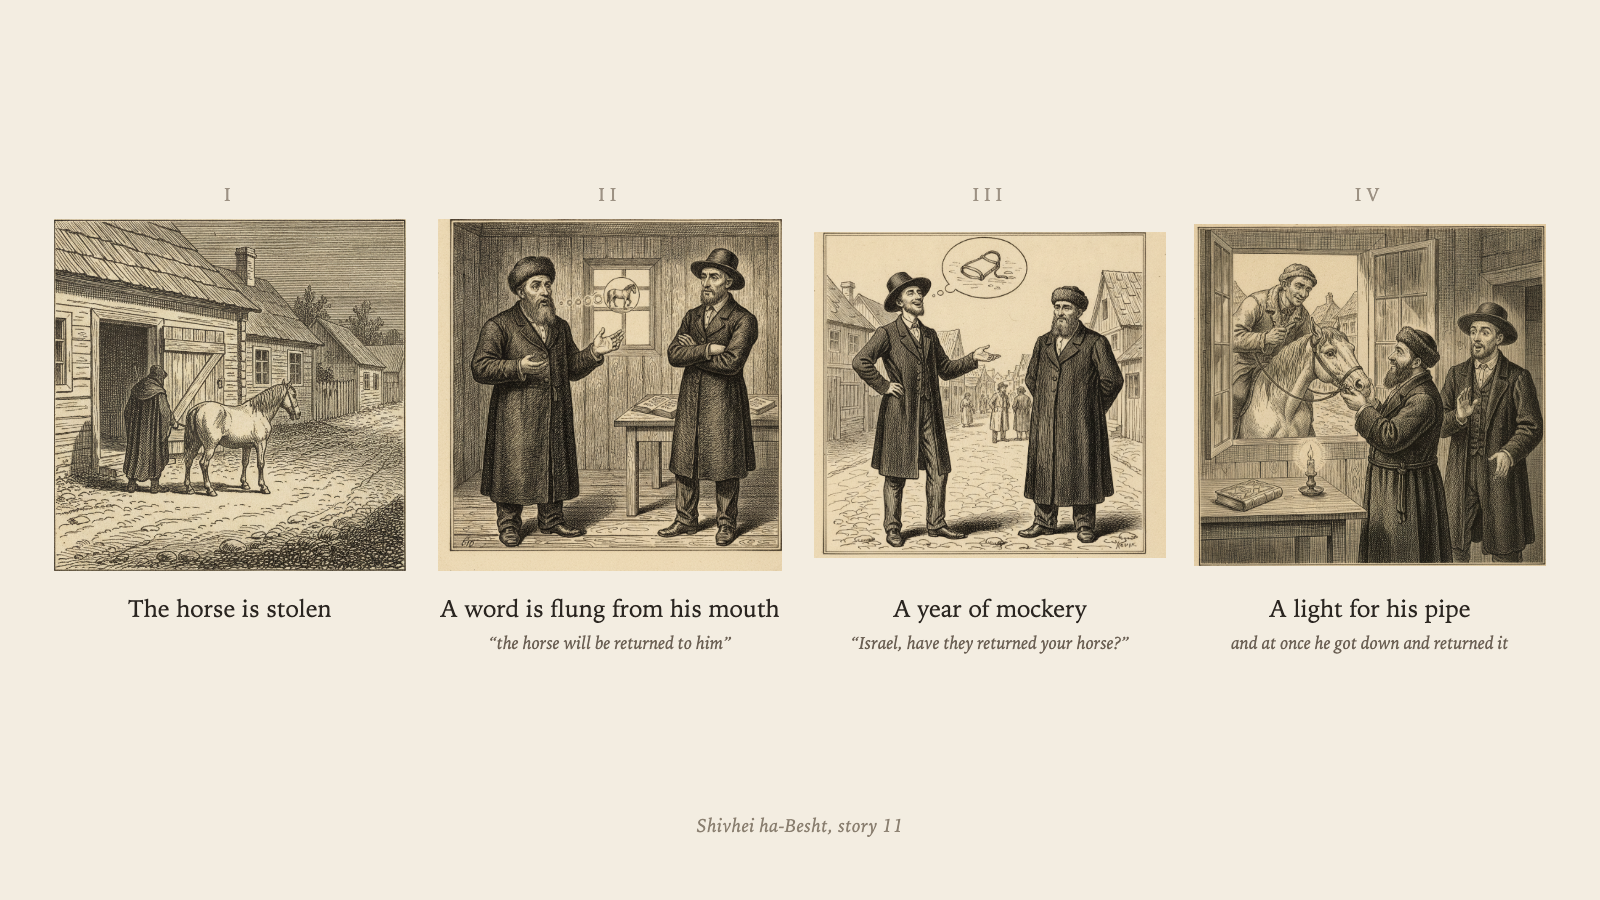
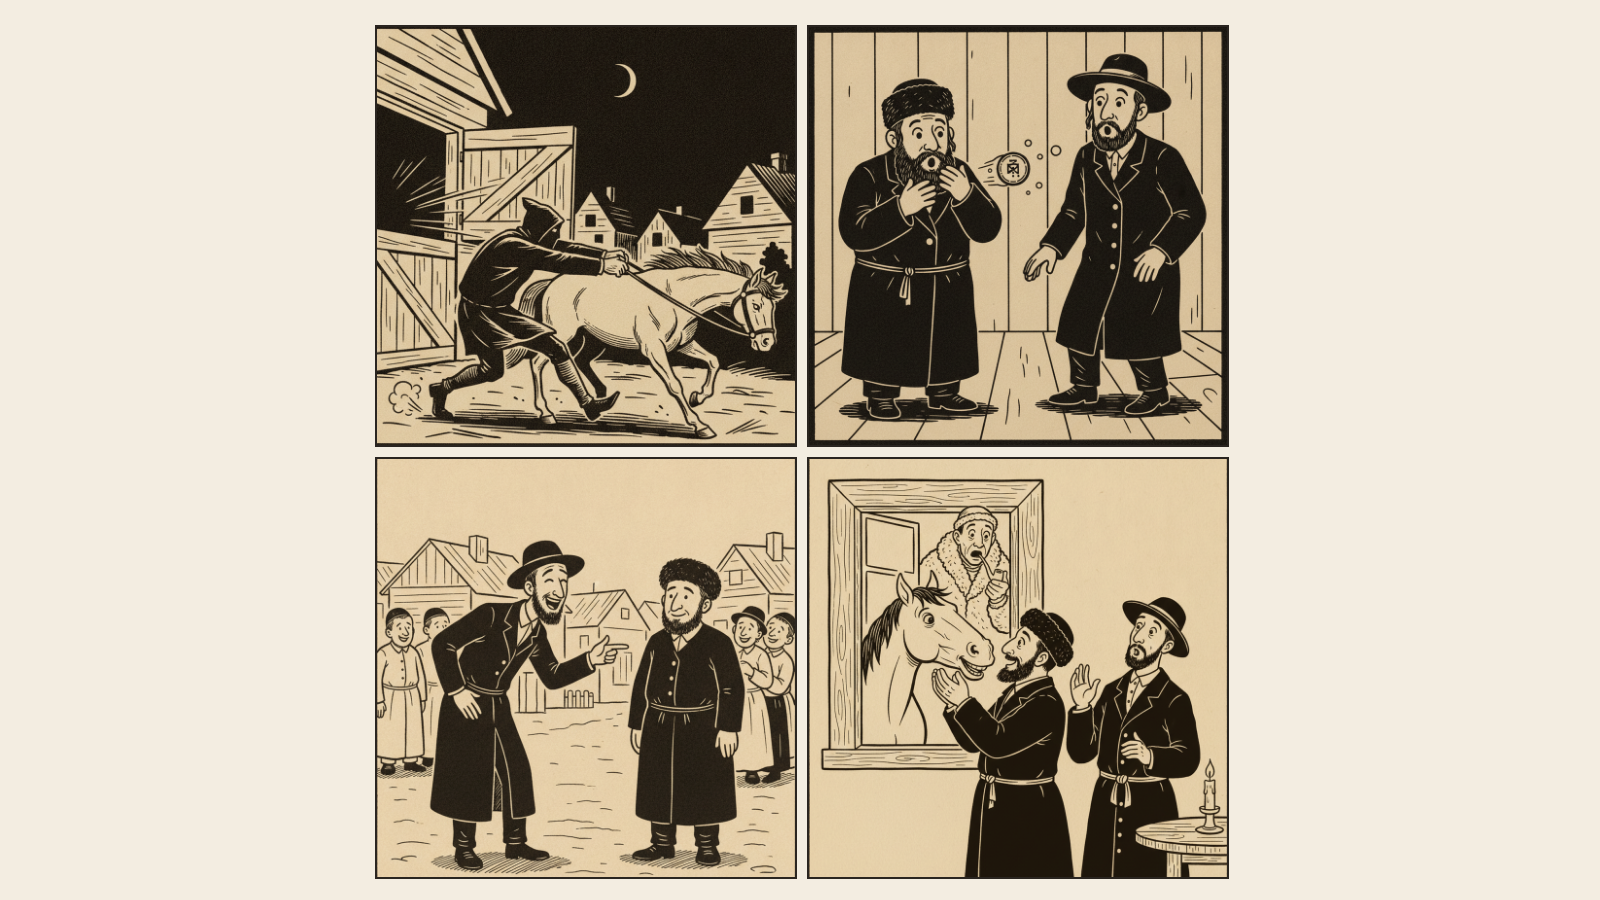
Horse slide round 2: stylised woodcut panels in one 2x2 comic grid
Less realistic and more uniform across the four: bold even outlines, flat
black-and-cream, simplified expressive faces, same figure scale throughout.
Numbers and captions dropped -- the pictures carry the story.

Per-panel: 1 hurried stealth (speed lines, glance back); 2 a cryptic sigil
instead of a legible horse, both men astonished; 3 no emblem, plainer jeering
with the townsfolk joining in; 4 Besht and horse smiling at each other, the
gentile surprised. Panel 4 reshot twice -- first too dark for the grid, then
for losing the window framing (h4_b_v2.png keeps that second try).

diff --git a/talks/paris-inalco-2026-11/robot/horse_slide.html b/talks/paris-inalco-2026-11/robot/horse_slide.html
@@ -5,33 +5,23 @@
   html,body{margin:0;background:#F3EDE1}
   .slide{width:1600px;height:900px;position:relative;background:#F3EDE1;overflow:hidden;
          font-family:"Iowan Old Style","Palatino Linotype",Palatino,"Hoefler Text",Georgia,serif}
-  /* Four wordless engraved panels (h*_crop.png, each cropped to its drawn scene) in one
-     row. object-fit:contain so no panel is cut; multiply blends plate paper into the cream. */
-  .row{position:absolute;top:182px;left:50%;transform:translateX(-50%);
-       display:flex;gap:28px;align-items:flex-start}
-  .panel{width:352px;display:flex;flex-direction:column;align-items:center}
-  .num{color:#9C9183;font-size:18px;letter-spacing:.3em;margin-bottom:12px}
-  .panel img{display:block;width:352px;height:352px;object-fit:contain;mix-blend-mode:multiply}
-  .cap{margin-top:22px;text-align:center;color:#2A2520;font-size:24px;line-height:1.32}
-  .cap i{display:block;font-size:18px;color:#6B6054;font-style:italic;margin-top:6px}
-  .src{position:absolute;left:0;right:0;bottom:62px;text-align:center;
-       color:#8A7F70;font-size:19px;font-style:italic;letter-spacing:.02em}
+  /* Four wordless woodcut panels (h*_b_crop.png, squared) in one joint 2x2 grid.
+     The cells sit on a cream ground and the ink rules are drawn as borders on each
+     cell, so the four read as one comic page. The panels keep multiply so their own
+     plate paper melts into the slide's cream -- hence a CREAM grid ground, never a
+     dark one, which would multiply the artwork down to black. */
+  .grid{position:absolute;top:50%;left:50%;transform:translate(-50%,-50%);
+        display:grid;grid-template-columns:repeat(2,418px);grid-template-rows:repeat(2,418px);
+        gap:14px;background:#F3EDE1}
+  .cell{width:418px;height:418px;border:2.5px solid #2A2520;overflow:hidden;background:#F3EDE1}
+  .cell img{display:block;width:100%;height:100%;object-fit:cover;mix-blend-mode:multiply}
 </style></head><body>
 <div class="slide">
-  <div class="row">
-    <div class="panel"><div class="num">I</div>
-      <img src="h1_crop.png" alt="A thief leads the horse out of the stable at night">
-      <div class="cap">The horse is stolen</div></div>
-    <div class="panel"><div class="num">II</div>
-      <img src="h2_crop.png" alt="A word escapes the Besht's mouth and surprises him">
-      <div class="cap">A word is flung from his mouth<i>&ldquo;the horse will be returned to him&rdquo;</i></div></div>
-    <div class="panel"><div class="num">III</div>
-      <img src="h3_crop.png" alt="The brother-in-law mocks him in the street">
-      <div class="cap">A year of mockery<i>&ldquo;Israel, have they returned your horse?&rdquo;</i></div></div>
-    <div class="panel"><div class="num">IV</div>
-      <img src="h4_crop.png" alt="A gentile rides up with a pipe and the horse looks in at the window">
-      <div class="cap">A light for his pipe<i>and at once he got down and returned it</i></div></div>
+  <div class="grid">
+    <div class="cell"><img src="h1_b_crop.png" alt="A hooded thief hurries the horse out of the stable at night"></div>
+    <div class="cell"><img src="h2_b_crop.png" alt="A cryptic word flies from the Besht's mouth; both men are astonished"></div>
+    <div class="cell"><img src="h3_b_crop.png" alt="The brother-in-law jeers at him in the street as the townsfolk laugh"></div>
+    <div class="cell"><img src="h4_b_crop.png" alt="The horse's head comes in at the window; it and the Besht beam at each other"></div>
   </div>
-  <div class="src">Shivhei ha-Besht, story 11</div>
 </div>
 </body></html>

diff --git a/talks/paris-inalco-2026-11/robot/gen_horse2.py b/talks/paris-inalco-2026-11/robot/gen_horse2.py
@@ -1,0 +1,112 @@
+"""Round 2 of the four wordless panels for Shivhei ha-Besht no. 11 (the stolen horse).
+
+Changes from gen_horse.py, per Sinai:
+  - less photographic realism, more of a comic / broadside woodcut; all four panels
+    must look like ONE hand on ONE day (shared line weight, same figure scale).
+  - no numerals, no captions anywhere -- they are laid out as a 2x2 grid instead.
+  - panel 1: hurried stealth.
+  - panel 2: the emblem is a CRYPTIC WORD-SHAPE (not a legible horse), and BOTH men
+    are surprised.
+  - panel 3: no thought bubble at all, just plainer ridicule.
+  - panel 4: horse and Besht smiling at each other, the gentile surprised.
+
+Output h*_b.png so round 1 (h*.png) is kept for comparison.
+"""
+import os, sys, json
+from google import genai
+
+for line in open('/Users/sinairusinek/Documents/GitHub/Hasidigital/.env'):
+    if '=' in line and not line.startswith('#'):
+        k, v = line.strip().split('=', 1)
+        os.environ.setdefault(k, v.strip().strip('"').strip("'"))
+client = genai.Client(api_key=os.environ.get('GEMINI_API_KEY') or os.environ.get('GOOGLE_API_KEY'))
+MODEL = 'gemini-2.5-flash-image'
+HERE = os.path.dirname(os.path.abspath(__file__))
+
+# One style block, repeated verbatim in all four, so the set coheres.
+STYLE = (
+    "Style: a woodcut comic panel from an old printed chapbook, black ink on warm cream paper, "
+    "slight sepia tone. SIMPLIFIED AND STYLISED, NOT REALISTIC: bold confident outlines of even weight, "
+    "flat areas of plain cream and plain black, simple blocky cross-hatching used sparingly for shadow only. "
+    "Faces are simplified and expressive, almost cartoon-like, with clear readable emotion -- big plain eyes, "
+    "strong eyebrows, simple mouths -- but drawn with dignity, never grotesque or caricatured, and never "
+    "mocking any religion or people. No fine engraving detail, no photographic texture, no realistic "
+    "modelling of cloth or skin, no gradients, no colour wash. "
+    "All figures are drawn at the same size and in the same simple style in every panel, as if by one "
+    "artist for one book. Medium shot: the figures fill the panel from roughly the knees up. "
+    "ABSOLUTELY NO LETTERS, WORDS, NUMBERS, TITLES, LABELS, CAPTIONS OR SIGNATURES ANYWHERE IN THE IMAGE. "
+    "A single square panel, one scene, filling the whole image edge to edge, with NO frame, NO ruled border "
+    "and NO paper margin around it."
+)
+
+CAST = (
+    "Recurring cast, drawn identically in every panel: THE BESHT is a stocky bearded Jewish man of middle "
+    "age in a long dark coat and a round fur-trimmed hat, warm and open-faced. THE BROTHER-IN-LAW is "
+    "taller and leaner, a Jewish scholar with a short dark beard, a long dark coat and a flat broad-brimmed "
+    "hat. THE HORSE is one plain pale working horse with a dark mane. Setting: an eighteenth-century "
+    "Eastern European small town of simple wooden houses. "
+)
+
+PANELS = {
+ 'h1_b': CAST + "PANEL ONE -- HURRIED STEALTH AT NIGHT. A thief in a hooded cloak, face hidden in shadow, "
+   "is stealing the horse from the stable and is in a great hurry: he is caught mid-stride, leaning far "
+   "forward, almost running, hauling the horse by the halter with both hands and throwing a sharp glance "
+   "back over his shoulder to see if anyone is watching. The horse is pulled along off-balance with its "
+   "head stretched out. Convey haste and furtiveness: a tilted leaning composition, the stable door left "
+   "banging open behind him, scattered straw, a few speed lines and dust puffs at his heels in the simple "
+   "woodcut manner. Night: a dark sky with a thin crescent moon, the houses in flat black silhouette. "
+   "No other people. ",
+
+ 'h2_b': CAST + "PANEL TWO -- THE WORD ESCAPES. Indoors, a bare wooden room, the two men facing each other. "
+   "Out of the Besht's open mouth flies a small round emblem, like a sealed medallion, trailed by three "
+   "little circles as an utterance is drawn in old prints. Inside that medallion there is NO picture of "
+   "anything recognisable: it holds a single CRYPTIC MARK, an invented occult sigil of a few strokes, a "
+   "curl and a dot -- deliberately unreadable, resembling no real alphabet and no real letter, like a "
+   "secret seal. BOTH MEN ARE ASTONISHED and both stare at the flying emblem, not at each other: the Besht "
+   "has flung one hand to his own mouth, his eyes wide, startled that the word left him at all; the "
+   "brother-in-law has recoiled a step with his eyebrows high, his arms starting to unfold, his mouth "
+   "open. Strong simple expressions of shock on both faces. ",
+
+ 'h3_b': CAST + "PANEL THREE -- OPEN RIDICULE IN THE STREET. Broad daylight in the town lane. "
+   "NO thought bubble and no emblem of any kind anywhere in this panel -- the air above them is empty sky. "
+   "The brother-in-law is plainly jeering at the Besht: head thrown back, mouth wide in a big laugh, one "
+   "hand slapping his own thigh and the other arm flung out to point mockingly at the bare empty ground "
+   "beside the Besht where a horse obviously is not. He leans in toward the Besht as he laughs. "
+   "Two or three townsfolk stand behind them, grinning and nudging each other, joining in the laughter. "
+   "The Besht stands square and quiet in the middle of it, hands at his sides, patient and unbothered. "
+   "The ridicule must read instantly from the postures alone. ",
+
+ 'h4_b': CAST + "PANEL FOUR -- THE RETURN, the happiest panel. We are INSIDE the Besht's house, looking "
+   "at the back wall of the room. That wall has one big open window. THE HORSE IS OUTSIDE IN THE STREET, "
+   "NOT in the room: only its HEAD AND NECK come in through the window opening. The horse's body, legs "
+   "and hooves are NOT visible inside the room -- the window sill cuts across its neck. Never draw a whole "
+   "horse standing on the floorboards indoors. "
+   "Sitting on the horse's back outside, visible through the window above and behind the horse's head, is "
+   "a peasant gentile in a sheepskin coat and cap holding out a long clay pipe he came to have lit. "
+   "HE IS THE SURPRISED ONE: eyes wide, eyebrows up, jaw dropped, the pipe frozen halfway from his mouth "
+   "as he stares down at the man and the horse greeting each other like old friends. "
+   "The Besht stands inside at the window, face to face and nose to nose with the horse's head: THE BESHT "
+   "AND THE HORSE ARE BOTH SMILING BROADLY AT EACH OTHER WITH OPEN DELIGHT -- the man beaming, both hands "
+   "cupped on the horse's muzzle; the horse's ears pricked forward, its eye bright and its mouth curved up "
+   "in a happy horse-smile, stretching eagerly in toward him. "
+   "To the other side, inside the room, the brother-in-law stands thunderstruck: eyes wide, mouth open, "
+   "one hand half-raised. A lit candle stands on a small table indoors. "
+   "KEEP THIS PANEL BRIGHT AND OPEN, mostly plain cream paper with black outlines and only small areas of "
+   "solid black, matching the lightness of the other panels. ",
+}
+
+which = sys.argv[1:] or list(PANELS)
+log = []
+for name in which:
+    r = client.models.generate_content(model=MODEL, contents=PANELS[name] + STYLE)
+    u = r.usage_metadata
+    saved = False
+    for part in r.candidates[0].content.parts:
+        if getattr(part, 'inline_data', None) and part.inline_data.data:
+            open(os.path.join(HERE, name + '.png'), 'wb').write(part.inline_data.data)
+            saved = True
+    rec = dict(name=name, saved=saved, prompt_tokens=u.prompt_token_count,
+               output_tokens=u.candidates_token_count, total=u.total_token_count)
+    print(json.dumps(rec))
+    log.append(rec)
+json.dump(log, open(os.path.join(HERE, 'usage_horse2.json'), 'w'), indent=1)
